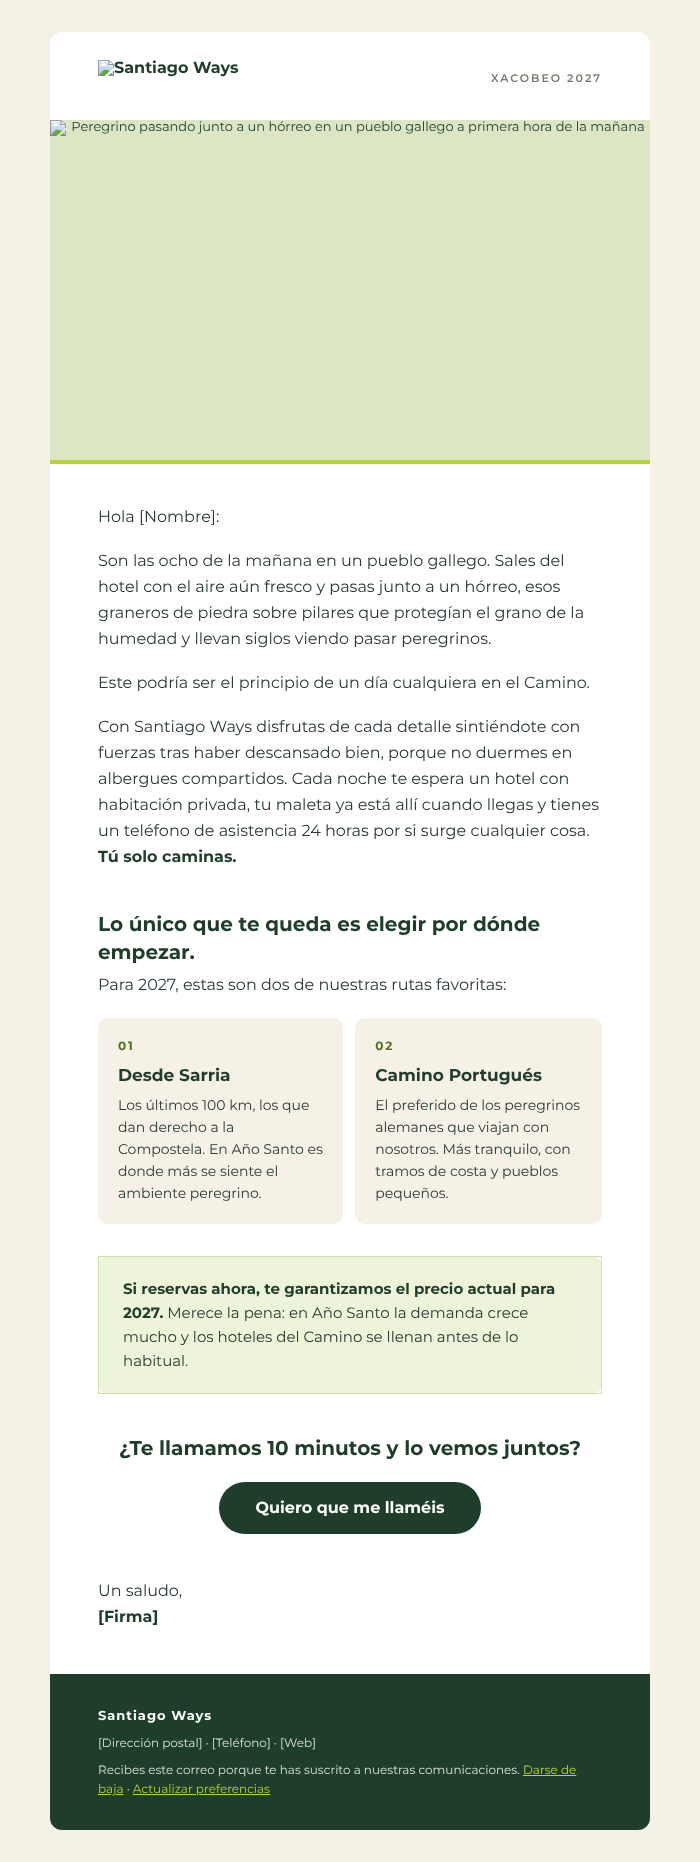
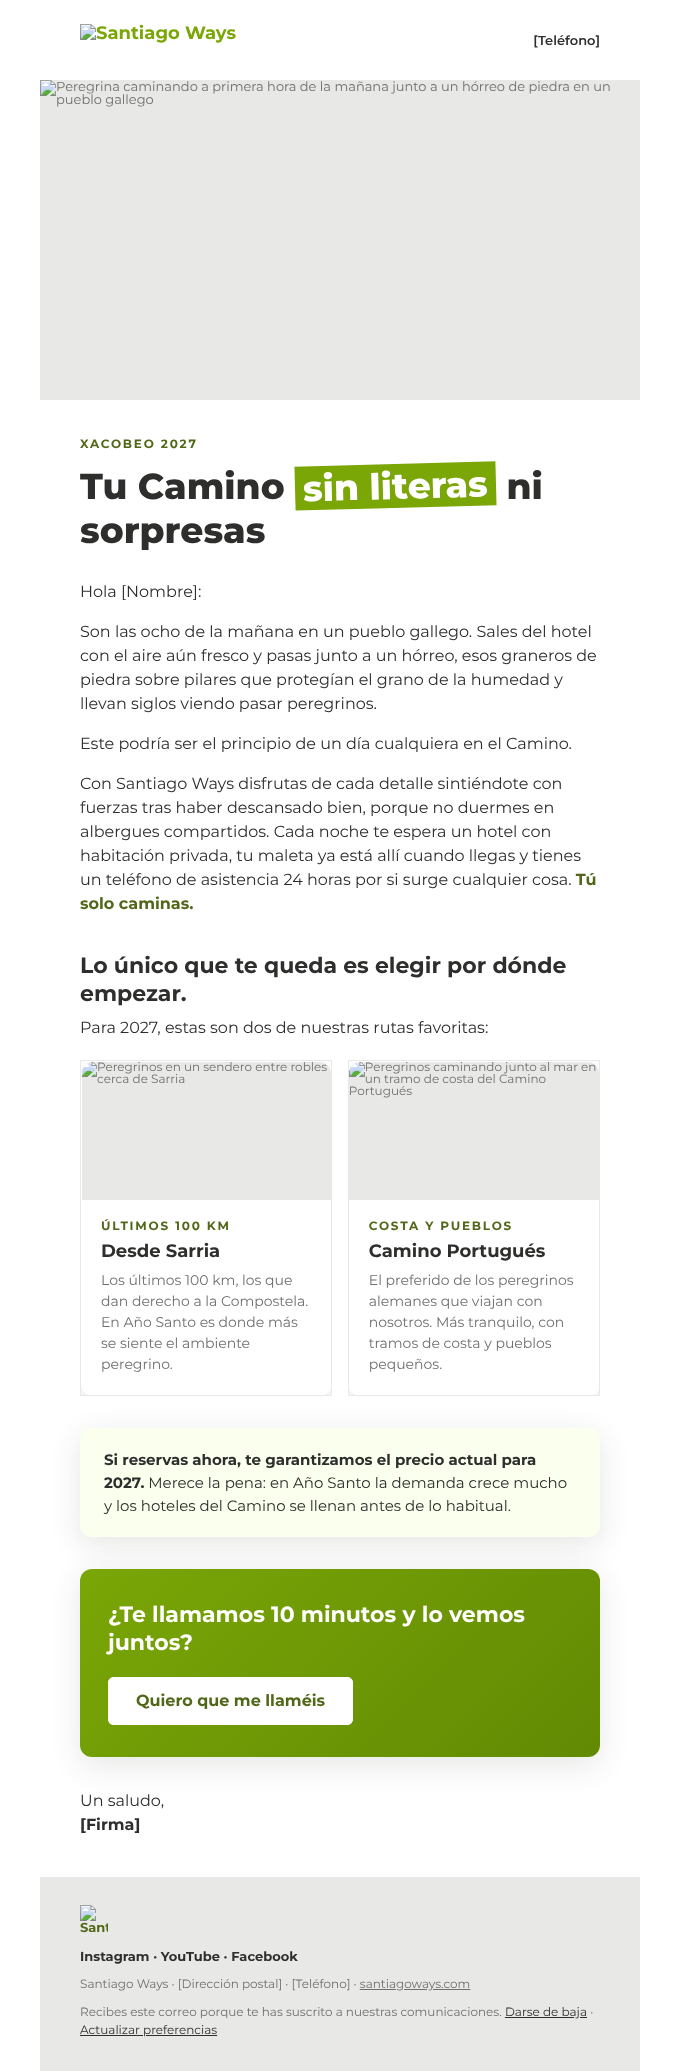
Rehacer email «Tu Camino sin literas ni sorpresas» según el Brandbook 2027
Aplica las reglas del brandbook: cabecera blanca con logo y teléfono,
titular Montserrat ExtraBold con un único subrayado SW, paleta oficial
(verde Ways, verde sendero, grafito, niebla, brote), tarjetas con sombra
suave, caja verde con degradado 135° solo para el cierre con CTA blanco
y pie gris común con redes y contacto. Actualiza la vista previa.

Claude-Session: https://claude.ai/code/session_01EbdgJp1ESU5mdytrT2EzH4

diff --git a/emails/2027-tu-camino-sin-literas.html b/emails/2027-tu-camino-sin-literas.html
@@ -11,145 +11,170 @@
 <!--
   Santiago Ways · Brandbook 2027 · Email "Tu Camino sin literas ni sorpresas"
 
-  Paleta (sustituir aquí si el brandbook define otros valores exactos):
-    Verde oscuro (títulos, botón, pie) ... #1F3D2B
-    Verde lima (acentos) ................. #B8D432
-    Crema (fondo) ........................ #F5F1E6
-    Verde muy claro (recuadros, píldoras)  #EEF4DA
-    Borde verde claro .................... #CFE0A0
-    Texto cuerpo ......................... #2B3A31
-    Gris etiquetas ....................... #7A7A70
+  Paleta del brandbook (ratio 50/30/10/7/3):
+    Blanco ........ #FFFFFF  fondo principal
+    Verde Ways .... #7AA606  CTA, subrayado SW, líneas, concha (nunca texto)
+    Degradado ..... #7AA606 a #628A04, 135°, solo en cajas verde Ways
+    Verde sendero . #506718  antetítulos, palabras clave, texto de botón sobre blanco
+    Grafito ....... #2E2E2D  texto principal y titulares
+    Gris .......... #6F6F6E  textos secundarios
+    Niebla ........ #E8E8E6  pie y superficies
+    Brote ......... #FAFFEE  caja destacada suave
+
+  Estructura de email (bloque 07): cabecera blanca con logo a la izquierda y
+  teléfono a la derecha; titular Montserrat ExtraBold con un solo subrayado
+  verde Ways; fondo blanco; caja verde solo para el cierre; pie gris común.
 -->
-<link href="https://fonts.googleapis.com/css2?family=Montserrat:wght@400;600;700&display=swap" rel="stylesheet">
+<link href="https://fonts.googleapis.com/css2?family=Montserrat:wght@400;600;700;800&display=swap" rel="stylesheet">
 <style>
-  body { margin: 0 !important; padding: 0 !important; width: 100% !important; background: #F5F1E6; }
+  body { margin: 0 !important; padding: 0 !important; width: 100% !important; background: #FFFFFF; }
   table { border-collapse: collapse; mso-table-lspace: 0; mso-table-rspace: 0; }
   img { border: 0; line-height: 100%; outline: none; text-decoration: none; -ms-interpolation-mode: bicubic; }
-  a { color: #1F3D2B; }
-  .sw-font { font-family: Montserrat, Helvetica, Arial, sans-serif; }
+  a { color: #506718; }
   @media screen and (max-width: 620px) {
     .sw-container { width: 100% !important; }
     .sw-pad { padding-left: 24px !important; padding-right: 24px !important; }
     .sw-col { display: block !important; width: 100% !important; }
-    .sw-col-gap { height: 12px !important; }
-    .sw-hero { height: auto !important; }
-    .sw-cta a { display: block !important; }
+    .sw-col-gap { display: block !important; width: 100% !important; height: 16px !important; }
+    .sw-h1 { font-size: 30px !important; line-height: 36px !important; }
+    .sw-hide-mobile { display: none !important; }
   }
 </style>
 <!--[if mso]>
-<style> .sw-font { font-family: Arial, sans-serif !important; } </style>
+<style> * { font-family: Arial, sans-serif !important; } </style>
 <![endif]-->
 </head>
-<body style="margin:0; padding:0; background:#F5F1E6;">
+<body style="margin:0; padding:0; background:#FFFFFF;">
 
 <!-- Preheader -->
-<div style="display:none; max-height:0; overflow:hidden; mso-hide:all; font-size:1px; line-height:1px; color:#F5F1E6; opacity:0;">
+<div style="display:none; max-height:0; overflow:hidden; mso-hide:all; font-size:1px; line-height:1px; color:#FFFFFF; opacity:0;">
   Hotel, equipaje y alguien pendiente de ti todo el camino.
   &#8199;&#65279;&#847;&#8199;&#65279;&#847;&#8199;&#65279;&#847;&#8199;&#65279;&#847;&#8199;&#65279;&#847;&#8199;&#65279;&#847;&#8199;&#65279;&#847;&#8199;&#65279;&#847;
 </div>
 
-<table role="presentation" width="100%" cellpadding="0" cellspacing="0" border="0" style="background:#F5F1E6;">
+<table role="presentation" width="100%" cellpadding="0" cellspacing="0" border="0" style="background:#FFFFFF;">
 <tr>
-<td align="center" style="padding:32px 12px;">
+<td align="center" style="padding:0;">
 
-  <table role="presentation" class="sw-container" width="600" cellpadding="0" cellspacing="0" border="0" style="width:600px; max-width:600px; background:#FFFFFF; border-radius:12px; overflow:hidden;">
+  <table role="presentation" class="sw-container" width="600" cellpadding="0" cellspacing="0" border="0" style="width:600px; max-width:600px; background:#FFFFFF;">
 
-    <!-- Cabecera: logo + etiqueta -->
+    <!-- Cabecera blanca: logo a la izquierda, teléfono a la derecha -->
     <tr>
-      <td class="sw-pad" style="padding:28px 48px 24px;">
+      <td class="sw-pad" style="padding:24px 40px;">
         <table role="presentation" width="100%" cellpadding="0" cellspacing="0" border="0">
           <tr>
             <td align="left" valign="middle">
-              <!-- Sustituir por el logo del brandbook (PNG 2x, 340 × 72 px aprox.) -->
-              <img src="[URL_LOGO]" width="170" height="36" alt="Santiago Ways" style="display:block; width:170px; height:36px; font-family:Montserrat, Helvetica, Arial, sans-serif; font-size:16px; font-weight:700; color:#1F3D2B;">
+              <!-- Logo horizontal color (#7AA606 sobre blanco). Ancho mínimo digital: 140 px. PNG a 2x: 320 × 64 px -->
+              <img src="[URL_LOGO]" width="160" height="32" alt="Santiago Ways" style="display:block; width:160px; height:32px; font-family:Montserrat, Helvetica, Arial, sans-serif; font-size:18px; font-weight:700; color:#7AA606;">
             </td>
-            <td align="right" valign="middle" class="sw-font" style="font-family:Montserrat, Helvetica, Arial, sans-serif; font-size:11px; font-weight:600; letter-spacing:2px; text-transform:uppercase; color:#7A7A70;">
-              Xacobeo 2027
+            <td align="right" valign="middle" style="font-family:Montserrat, Helvetica, Arial, sans-serif; font-size:13px; line-height:18px; font-weight:600; color:#2E2E2D;">
+              <a href="tel:[TELEFONO]" style="color:#2E2E2D; text-decoration:none;">[Teléfono]</a>
             </td>
           </tr>
         </table>
       </td>
     </tr>
 
-    <!-- Imagen principal -->
+    <!-- Imagen principal: foto propia de peregrino real -->
     <tr>
-      <td bgcolor="#DCE6C4" height="340" style="background:#DCE6C4; height:340px; font-family:Montserrat, Helvetica, Arial, sans-serif; font-size:13px; color:#1F3D2B; text-align:center;">
-        <!-- Sustituir por imagen 1200 × 680 px: hórreo gallego con luz de mañana y peregrino saliendo del hotel -->
-        <img class="sw-hero" src="[URL_IMAGEN_PRINCIPAL]" width="600" height="340" alt="Peregrino pasando junto a un hórreo en un pueblo gallego a primera hora de la mañana" style="display:block; width:100%; max-width:600px; height:auto;">
+      <td bgcolor="#E8E8E6" style="background:#E8E8E6; font-family:Montserrat, Helvetica, Arial, sans-serif; font-size:13px; color:#6F6F6E;">
+        <!-- Imagen 1200 × 640 px: peregrino saliendo del hotel a primera hora, pasando junto a un hórreo gallego. Luz natural, buen tiempo, sin cansancio -->
+        <img src="[URL_IMAGEN_PRINCIPAL]" width="600" height="320" alt="Peregrina caminando a primera hora de la mañana junto a un hórreo de piedra en un pueblo gallego" style="display:block; width:100%; max-width:600px; height:auto;">
       </td>
     </tr>
 
-    <!-- Línea lima de acento -->
-    <tr><td style="height:4px; line-height:4px; font-size:0; background:#B8D432;">&nbsp;</td></tr>
+    <!-- Antetítulo + titular con subrayado SW -->
+    <tr>
+      <td class="sw-pad" style="padding:36px 40px 0; font-family:Montserrat, Helvetica, Arial, sans-serif;">
+        <p style="margin:0 0 12px; font-size:12px; line-height:16px; font-weight:700; letter-spacing:1.8px; text-transform:uppercase; color:#506718;">Xacobeo 2027</p>
+        <h1 class="sw-h1" style="margin:0; font-family:Montserrat, Helvetica, Arial, sans-serif; font-size:36px; line-height:44px; font-weight:800; color:#2E2E2D;">
+          Tu Camino <span style="display:inline-block; background:#7AA606; color:#FFFFFF; padding:0 8px; transform:rotate(-1.5deg); -webkit-transform:rotate(-1.5deg);">sin literas</span> ni sorpresas
+        </h1>
+      </td>
+    </tr>
 
     <!-- Cuerpo: apertura -->
     <tr>
-      <td class="sw-pad sw-font" style="padding:40px 48px 8px; font-family:Montserrat, Helvetica, Arial, sans-serif; font-size:16px; line-height:26px; color:#2B3A31;">
-        <p style="margin:0 0 18px;">Hola [Nombre]:</p>
-        <p style="margin:0 0 18px;">Son las ocho de la mañana en un pueblo gallego. Sales del hotel con el aire aún fresco y pasas junto a un hórreo, esos graneros de piedra sobre pilares que protegían el grano de la humedad y llevan siglos viendo pasar peregrinos.</p>
-        <p style="margin:0 0 18px;">Este podría ser el principio de un día cualquiera en el Camino.</p>
-        <p style="margin:0;">Con Santiago Ways disfrutas de cada detalle sintiéndote con fuerzas tras haber descansado bien, porque no duermes en albergues compartidos. Cada noche te espera un hotel con habitación privada, tu maleta ya está allí cuando llegas y tienes un teléfono de asistencia 24 horas por si surge cualquier cosa. <strong style="color:#1F3D2B; font-weight:700;">Tú solo caminas.</strong></p>
+      <td class="sw-pad" style="padding:28px 40px 0; font-family:Montserrat, Helvetica, Arial, sans-serif; font-size:16px; line-height:24px; color:#2E2E2D;">
+        <p style="margin:0 0 16px;">Hola [Nombre]:</p>
+        <p style="margin:0 0 16px;">Son las ocho de la mañana en un pueblo gallego. Sales del hotel con el aire aún fresco y pasas junto a un hórreo, esos graneros de piedra sobre pilares que protegían el grano de la humedad y llevan siglos viendo pasar peregrinos.</p>
+        <p style="margin:0 0 16px;">Este podría ser el principio de un día cualquiera en el Camino.</p>
+        <p style="margin:0;">Con Santiago Ways disfrutas de cada detalle sintiéndote con fuerzas tras haber descansado bien, porque no duermes en albergues compartidos. Cada noche te espera un hotel con habitación privada, tu maleta ya está allí cuando llegas y tienes un teléfono de asistencia 24 horas por si surge cualquier cosa. <strong style="font-weight:700; color:#506718;">Tú solo caminas.</strong></p>
       </td>
     </tr>
 
     <!-- Transición a rutas -->
     <tr>
-      <td class="sw-pad sw-font" style="padding:32px 48px 0; font-family:Montserrat, Helvetica, Arial, sans-serif;">
-        <p style="margin:0 0 6px; font-size:20px; line-height:28px; font-weight:700; color:#1F3D2B;">Lo único que te queda es elegir por dónde empezar.</p>
-        <p style="margin:0; font-size:16px; line-height:26px; color:#2B3A31;">Para 2027, estas son dos de nuestras rutas favoritas:</p>
+      <td class="sw-pad" style="padding:36px 40px 0; font-family:Montserrat, Helvetica, Arial, sans-serif;">
+        <h2 style="margin:0 0 8px; font-family:Montserrat, Helvetica, Arial, sans-serif; font-size:22px; line-height:28px; font-weight:700; color:#2E2E2D;">Lo único que te queda es elegir por dónde empezar.</h2>
+        <p style="margin:0; font-size:16px; line-height:24px; color:#2E2E2D;">Para 2027, estas son dos de nuestras rutas favoritas:</p>
       </td>
     </tr>
 
-    <!-- Rutas numeradas -->
+    <!-- Rutas: tarjetas blancas con sombra suave -->
     <tr>
-      <td class="sw-pad" style="padding:20px 48px 8px;">
+      <td class="sw-pad" style="padding:20px 40px 0;">
         <table role="presentation" width="100%" cellpadding="0" cellspacing="0" border="0">
           <tr>
-            <td class="sw-col sw-font" width="244" valign="top" style="width:244px; background:#F5F1E6; border-radius:10px; padding:20px; font-family:Montserrat, Helvetica, Arial, sans-serif;">
-              <p style="margin:0 0 10px; font-size:12px; line-height:16px; font-weight:700; letter-spacing:2px; color:#55701A;">01</p>
-              <p style="margin:0 0 8px; font-size:17px; line-height:22px; font-weight:700; color:#1F3D2B;">Desde Sarria</p>
-              <p style="margin:0; font-size:14px; line-height:22px; color:#2B3A31;">Los últimos 100 km, los que dan derecho a la Compostela. En Año Santo es donde más se siente el ambiente peregrino.</p>
+            <td class="sw-col" width="252" valign="top" style="width:252px; background:#FFFFFF; border:1px solid #E8E8E6; border-radius:12px; box-shadow:0 8px 32px rgba(46,46,45,0.12); overflow:hidden;">
+              <!-- Imagen 504 × 280 px: tramo desde Sarria -->
+              <img src="[URL_IMAGEN_SARRIA]" width="252" height="140" alt="Peregrinos en un sendero entre robles cerca de Sarria" style="display:block; width:100%; height:auto; border-radius:12px 12px 0 0; background:#E8E8E6; font-family:Montserrat, Helvetica, Arial, sans-serif; font-size:12px; color:#6F6F6E;">
+              <div style="padding:18px 20px 20px; font-family:Montserrat, Helvetica, Arial, sans-serif;">
+                <p style="margin:0 0 6px; font-size:12px; line-height:16px; font-weight:700; letter-spacing:1.8px; text-transform:uppercase; color:#506718;">Últimos 100 km</p>
+                <p style="margin:0 0 8px; font-size:18px; line-height:22px; font-weight:700; color:#2E2E2D;">Desde Sarria</p>
+                <p style="margin:0; font-size:14px; line-height:21px; color:#6F6F6E;">Los últimos 100 km, los que dan derecho a la Compostela. En Año Santo es donde más se siente el ambiente peregrino.</p>
+              </div>
             </td>
-            <td class="sw-col sw-col-gap" width="16" style="width:16px; font-size:0; line-height:0;">&nbsp;</td>
-            <td class="sw-col sw-font" width="244" valign="top" style="width:244px; background:#F5F1E6; border-radius:10px; padding:20px; font-family:Montserrat, Helvetica, Arial, sans-serif;">
-              <p style="margin:0 0 10px; font-size:12px; line-height:16px; font-weight:700; letter-spacing:2px; color:#55701A;">02</p>
-              <p style="margin:0 0 8px; font-size:17px; line-height:22px; font-weight:700; color:#1F3D2B;">Camino Portugués</p>
-              <p style="margin:0; font-size:14px; line-height:22px; color:#2B3A31;">El preferido de los peregrinos alemanes que viajan con nosotros. Más tranquilo, con tramos de costa y pueblos pequeños.</p>
-            </td>
-          </tr>
-        </table>
-      </td>
-    </tr>
-
-    <!-- Recuadro verde claro: precio garantizado -->
-    <tr>
-      <td class="sw-pad" style="padding:24px 48px 0;">
-        <table role="presentation" width="100%" cellpadding="0" cellspacing="0" border="0" style="background:#EEF4DA; border:1px solid #CFE0A0; border-radius:10px;">
-          <tr>
-            <td class="sw-font" style="padding:20px 24px; font-family:Montserrat, Helvetica, Arial, sans-serif; font-size:15px; line-height:24px; color:#2B3A31;">
-              <strong style="color:#1F3D2B; font-weight:700;">Si reservas ahora, te garantizamos el precio actual para 2027.</strong> Merece la pena: en Año Santo la demanda crece mucho y los hoteles del Camino se llenan antes de lo habitual.
+            <td class="sw-col-gap" width="16" style="width:16px; font-size:0; line-height:0;">&nbsp;</td>
+            <td class="sw-col" width="252" valign="top" style="width:252px; background:#FFFFFF; border:1px solid #E8E8E6; border-radius:12px; box-shadow:0 8px 32px rgba(46,46,45,0.12); overflow:hidden;">
+              <!-- Imagen 504 × 280 px: tramo de costa del Camino Portugués -->
+              <img src="[URL_IMAGEN_PORTUGUES]" width="252" height="140" alt="Peregrinos caminando junto al mar en un tramo de costa del Camino Portugués" style="display:block; width:100%; height:auto; border-radius:12px 12px 0 0; background:#E8E8E6; font-family:Montserrat, Helvetica, Arial, sans-serif; font-size:12px; color:#6F6F6E;">
+              <div style="padding:18px 20px 20px; font-family:Montserrat, Helvetica, Arial, sans-serif;">
+                <p style="margin:0 0 6px; font-size:12px; line-height:16px; font-weight:700; letter-spacing:1.8px; text-transform:uppercase; color:#506718;">Costa y pueblos</p>
+                <p style="margin:0 0 8px; font-size:18px; line-height:22px; font-weight:700; color:#2E2E2D;">Camino Portugués</p>
+                <p style="margin:0; font-size:14px; line-height:21px; color:#6F6F6E;">El preferido de los peregrinos alemanes que viajan con nosotros. Más tranquilo, con tramos de costa y pueblos pequeños.</p>
+              </div>
             </td>
           </tr>
         </table>
       </td>
     </tr>
 
-    <!-- CTA -->
+    <!-- Caja brote: precio garantizado -->
     <tr>
-      <td class="sw-pad" align="center" style="padding:40px 48px 8px;">
-        <p class="sw-font" style="margin:0 0 20px; font-family:Montserrat, Helvetica, Arial, sans-serif; font-size:20px; line-height:28px; font-weight:700; color:#1F3D2B; text-align:center;">¿Te llamamos 10 minutos y lo vemos juntos?</p>
-        <table role="presentation" class="sw-cta" cellpadding="0" cellspacing="0" border="0" align="center">
+      <td class="sw-pad" style="padding:32px 40px 0;">
+        <table role="presentation" width="100%" cellpadding="0" cellspacing="0" border="0" style="background:#FAFFEE; border-radius:12px; box-shadow:0 8px 32px rgba(46,46,45,0.12);">
           <tr>
-            <td align="center" bgcolor="#1F3D2B" style="border-radius:999px;">
-              <!--[if mso]>
-              <v:roundrect xmlns:v="urn:schemas-microsoft-com:vml" href="[URL_CTA]" style="height:52px; v-text-anchor:middle; width:280px;" arcsize="50%" stroke="f" fillcolor="#1F3D2B">
-                <w:anchorlock/>
-                <center style="color:#FFFFFF; font-family:Arial, sans-serif; font-size:16px; font-weight:bold;">Quiero que me llaméis</center>
-              </v:roundrect>
-              <![endif]-->
-              <!--[if !mso]><!-->
-              <a href="[URL_CTA]" class="sw-font" style="display:inline-block; padding:16px 36px; font-family:Montserrat, Helvetica, Arial, sans-serif; font-size:16px; line-height:20px; font-weight:700; color:#FFFFFF; text-decoration:none; border-radius:999px;">Quiero que me llaméis</a>
-              <!--<![endif]-->
+            <td style="padding:20px 24px; font-family:Montserrat, Helvetica, Arial, sans-serif; font-size:15px; line-height:23px; color:#2E2E2D;">
+              <strong style="font-weight:700;">Si reservas ahora, te garantizamos el precio actual para 2027.</strong> Merece la pena: en Año Santo la demanda crece mucho y los hoteles del Camino se llenan antes de lo habitual.
+            </td>
+          </tr>
+        </table>
+      </td>
+    </tr>
+
+    <!-- Cierre: caja verde Ways con degradado 135° y CTA blanco -->
+    <tr>
+      <td class="sw-pad" style="padding:32px 40px 0;">
+        <table role="presentation" width="100%" cellpadding="0" cellspacing="0" border="0">
+          <tr>
+            <td bgcolor="#7AA606" style="background-color:#7AA606; background-image:linear-gradient(135deg, #7AA606 0%, #628A04 100%); border-radius:12px; box-shadow:0 8px 32px rgba(46,46,45,0.12); padding:32px 28px; font-family:Montserrat, Helvetica, Arial, sans-serif;">
+              <p style="margin:0 0 20px; font-size:22px; line-height:28px; font-weight:700; color:#FFFFFF;">¿Te llamamos 10 minutos y lo vemos juntos?</p>
+              <table role="presentation" cellpadding="0" cellspacing="0" border="0">
+                <tr>
+                  <td align="center" bgcolor="#FFFFFF" style="border-radius:6px;">
+                    <!--[if mso]>
+                    <v:roundrect xmlns:v="urn:schemas-microsoft-com:vml" href="[URL_CTA]" style="height:48px; v-text-anchor:middle; width:240px;" arcsize="12%" stroke="f" fillcolor="#FFFFFF">
+                      <w:anchorlock/>
+                      <center style="color:#506718; font-family:Arial, sans-serif; font-size:16px; font-weight:bold;">Quiero que me llaméis</center>
+                    </v:roundrect>
+                    <![endif]-->
+                    <!--[if !mso]><!-->
+                    <a href="[URL_CTA]" style="display:inline-block; padding:14px 28px; font-family:Montserrat, Helvetica, Arial, sans-serif; font-size:16px; line-height:20px; font-weight:700; color:#506718; text-decoration:none; border-radius:6px; background:#FFFFFF;">Quiero que me llaméis</a>
+                    <!--<![endif]-->
+                  </td>
+                </tr>
+              </table>
             </td>
           </tr>
         </table>
@@ -158,18 +183,22 @@
 
     <!-- Firma -->
     <tr>
-      <td class="sw-pad sw-font" style="padding:36px 48px 44px; font-family:Montserrat, Helvetica, Arial, sans-serif; font-size:16px; line-height:26px; color:#2B3A31;">
+      <td class="sw-pad" style="padding:32px 40px 40px; font-family:Montserrat, Helvetica, Arial, sans-serif; font-size:16px; line-height:24px; color:#2E2E2D;">
         <p style="margin:0;">Un saludo,</p>
-        <p style="margin:0; font-weight:700; color:#1F3D2B;">[Firma]</p>
+        <p style="margin:0; font-weight:700;">[Firma]</p>
       </td>
     </tr>
 
-    <!-- Pie -->
+    <!-- Pie gris común: logo, redes y datos de contacto -->
     <tr>
-      <td class="sw-pad sw-font" style="background:#1F3D2B; padding:32px 48px; font-family:Montserrat, Helvetica, Arial, sans-serif; font-size:12px; line-height:19px; color:#D6E2CF;">
-        <p style="margin:0 0 8px; font-size:13px; font-weight:700; letter-spacing:1px; color:#FFFFFF;">Santiago Ways</p>
-        <p style="margin:0 0 8px;">[Dirección postal] · [Teléfono] · [Web]</p>
-        <p style="margin:0;">Recibes este correo porque te has suscrito a nuestras comunicaciones. <a href="[URL_BAJA]" style="color:#B8D432; text-decoration:underline;">Darse de baja</a> · <a href="[URL_PREFERENCIAS]" style="color:#B8D432; text-decoration:underline;">Actualizar preferencias</a></p>
+      <td class="sw-pad" bgcolor="#E8E8E6" style="background:#E8E8E6; padding:28px 40px 32px; font-family:Montserrat, Helvetica, Arial, sans-serif; font-size:12px; line-height:18px; color:#6F6F6E;">
+        <!-- Isotipo color (concha, #7AA606). PNG a 2x: 56 × 56 px -->
+        <img src="[URL_ISOTIPO]" width="28" height="28" alt="Santiago Ways" style="display:block; width:28px; height:28px; margin:0 0 14px; font-family:Montserrat, Helvetica, Arial, sans-serif; font-size:13px; font-weight:700; color:#506718;">
+        <p style="margin:0 0 10px; font-size:13px; line-height:18px; font-weight:700; color:#2E2E2D;">
+          <a href="[URL_INSTAGRAM]" style="color:#2E2E2D; text-decoration:none;">Instagram</a> · <a href="[URL_YOUTUBE]" style="color:#2E2E2D; text-decoration:none;">YouTube</a> · <a href="[URL_FACEBOOK]" style="color:#2E2E2D; text-decoration:none;">Facebook</a>
+        </p>
+        <p style="margin:0 0 10px;">Santiago Ways · [Dirección postal] · [Teléfono] · <a href="https://santiagoways.com" style="color:#6F6F6E; text-decoration:underline;">santiagoways.com</a></p>
+        <p style="margin:0;">Recibes este correo porque te has suscrito a nuestras comunicaciones. <a href="[URL_BAJA]" style="color:#2E2E2D; text-decoration:underline;">Darse de baja</a> · <a href="[URL_PREFERENCIAS]" style="color:#2E2E2D; text-decoration:underline;">Actualizar preferencias</a></p>
       </td>
     </tr>
 
